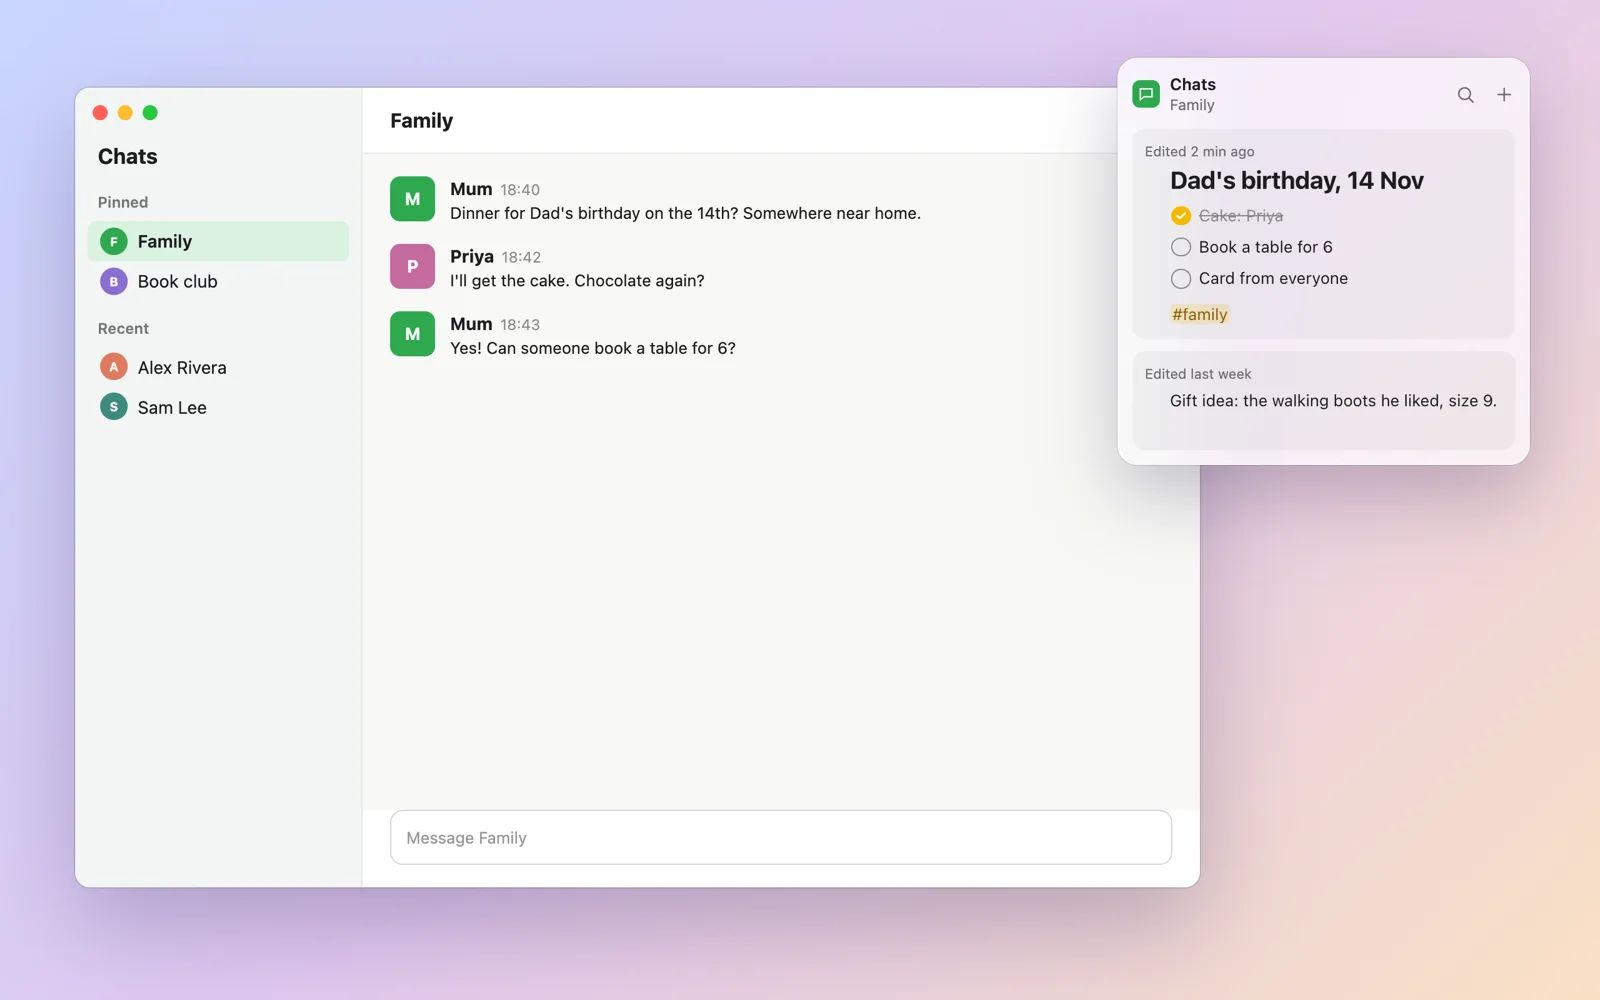
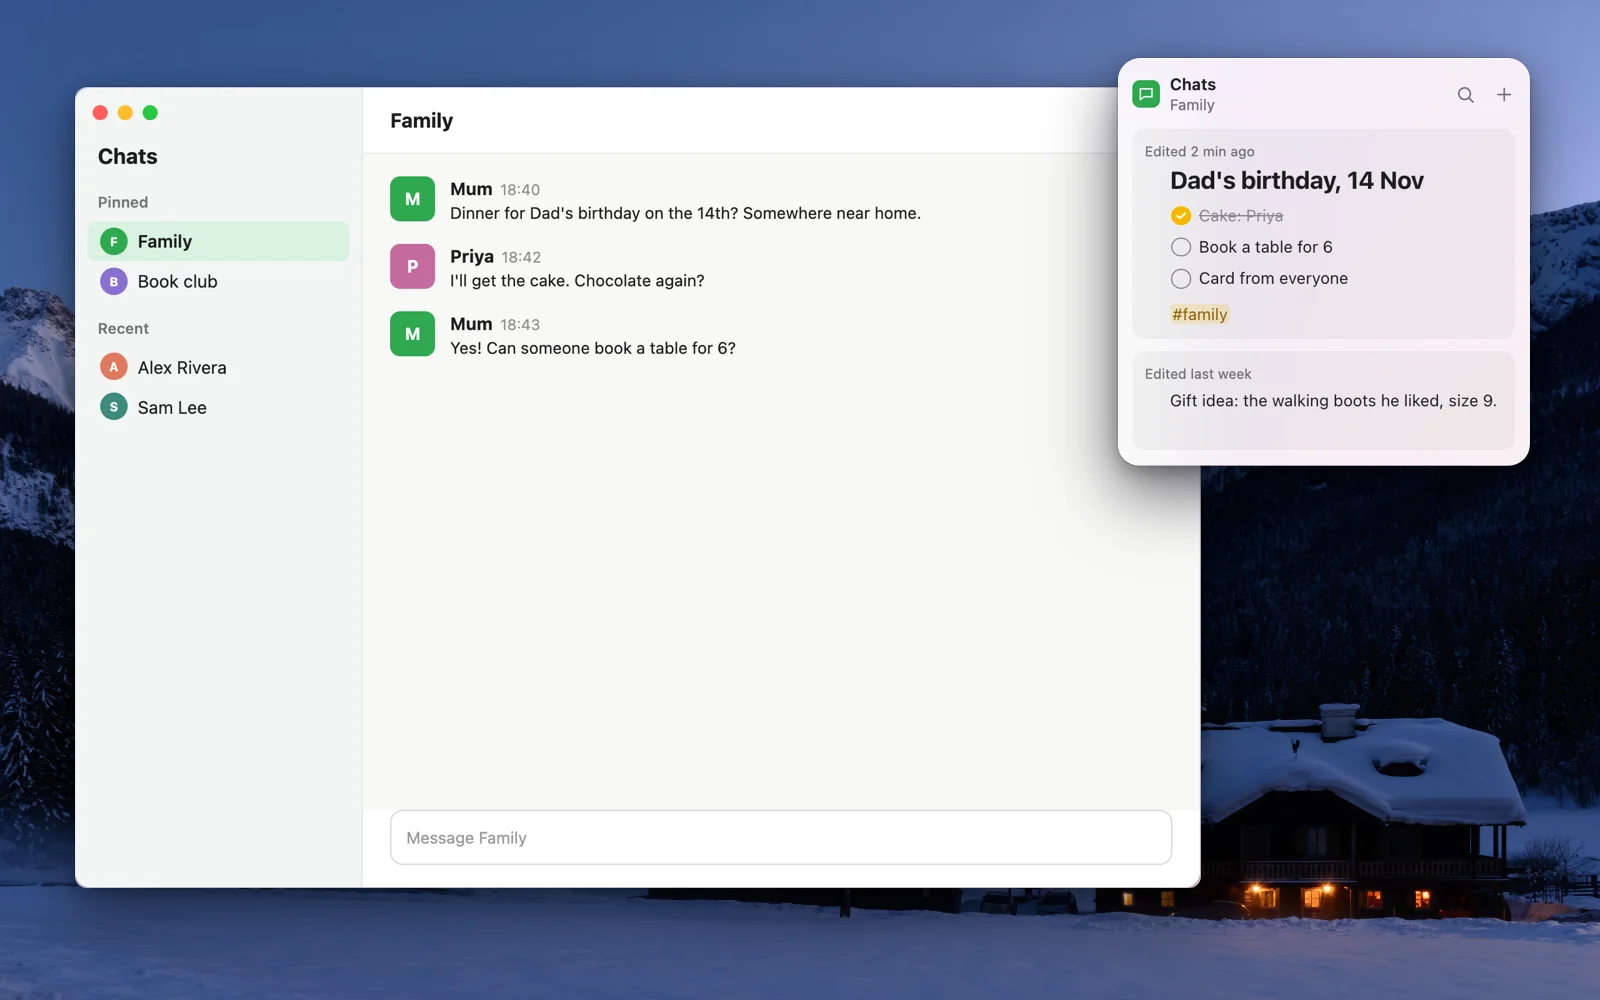
Website: photo desktops, 3Blue1Brown + Gemini study story, full app window for calendar and graph, one spacing scale

diff --git a/site/index.html b/site/index.html
@@ -19,6 +19,11 @@
     --mist: #f5f5f7;
     --blue: #0071e3;
     --font: -apple-system, BlinkMacSystemFont, "SF Pro Display", "Helvetica Neue", Helvetica, Arial, sans-serif;
+    /* One spacing scale for the whole page. */
+    --section: 160px;   /* between sections */
+    --to-sub: 16px;     /* headline to its line */
+    --to-shot: 56px;    /* text to its picture */
+    --stack: 40px;      /* picture to picture */
   }
   * { box-sizing: border-box; }
   html { -webkit-text-size-adjust: 100%; }
@@ -29,22 +34,23 @@
   h1, h2, h3, p { margin: 0; }
   kbd { font: inherit; }
 
-  .top { display: flex; align-items: center; justify-content: space-between; max-width: 1000px; margin: 0 auto; padding: 14px 22px; font-size: 13px; }
+  .top { display: flex; align-items: center; justify-content: space-between; max-width: 1000px; margin: 0 auto; padding: 14px 22px; font-size: 14px; }
   .top a { color: var(--ink); }
   .brand { display: flex; align-items: center; gap: 8px; font-weight: 600; }
   .brand img { width: 22px; height: 22px; }
-  .gh { display: flex; align-items: center; gap: 6px; padding: 4px; color: var(--ink); opacity: .8; }
-  .shot.graph { max-width: 640px; }
-  .gh:hover { opacity: 1; }
-  .gh svg { width: 20px; height: 20px; }
+  .gh { display: flex; align-items: center; gap: 6px; opacity: .8; }
+  .gh:hover { opacity: 1; text-decoration: none; }
+  .gh svg { width: 18px; height: 18px; }
 
-  section { padding: 110px 22px 0; text-align: center; }
-  section.mist { background: var(--mist); margin-top: 110px; padding-bottom: 110px; }
+  section { padding: var(--section) 22px 0; text-align: center; }
+  section.hero { padding-top: 72px; }
+  section.mist { background: var(--mist); margin-top: var(--section); padding-bottom: var(--section); }
+  section.last { padding-bottom: var(--section); }
   h1 { font-size: clamp(48px, 8vw, 80px); font-weight: 700; letter-spacing: -.015em; line-height: 1.05; }
-  h2 { font-size: clamp(36px, 5.6vw, 56px); font-weight: 600; letter-spacing: -.005em; line-height: 1.07; }
-  .tagline { margin-top: 10px; font-size: clamp(22px, 3vw, 28px); font-weight: 500; }
-  .sub { margin: 14px auto 0; max-width: 28em; font-size: clamp(19px, 2.2vw, 21px); color: var(--muted); }
-  .icon { width: 96px; height: 96px; margin-bottom: 18px; }
+  h2 { font-size: clamp(36px, 5.6vw, 56px); font-weight: 600; letter-spacing: -.005em; line-height: 1.07; text-wrap: balance; }
+  .tagline { margin-top: 12px; font-size: clamp(22px, 3vw, 28px); font-weight: 500; }
+  .sub { margin: var(--to-sub) auto 0; max-width: 30em; font-size: clamp(19px, 2.2vw, 21px); color: var(--muted); text-wrap: balance; }
+  .icon { display: block; width: 96px; height: 96px; margin: 0 auto 20px; }
 
   .actions { display: flex; flex-wrap: wrap; justify-content: center; gap: 14px; margin-top: 32px; }
   .pill { display: inline-block; padding: 12px 24px; border-radius: 980px; font-size: 17px; }
@@ -55,27 +61,29 @@
   .line:hover { background: var(--blue); color: #fff; }
   .fine { margin-top: 16px; font-size: 14px; color: var(--muted); }
 
-  .shot { display: block; width: 100%; max-width: 1000px; height: auto; margin: 64px auto 0; border-radius: 18px; }
-  .shot.framed { box-shadow: 0 0 0 1px rgba(0, 0, 0, .06), 0 30px 60px -20px rgba(0, 0, 0, .25); }
+  .shots { display: grid; gap: var(--stack); max-width: 1000px; margin: var(--to-shot) auto 0; }
+  .shots img { display: block; width: 100%; height: auto; }
+  .page { border-radius: 14px; box-shadow: 0 0 0 1px rgba(0, 0, 0, .06), 0 30px 60px -24px rgba(0, 0, 0, .3); }
+  .photo { border-radius: 18px; }
 
   .three { display: grid; grid-template-columns: repeat(3, minmax(0, 1fr)); gap: 48px; max-width: 1000px; margin: 0 auto; }
   .three h3 { font-size: 24px; font-weight: 600; }
   .three p { margin-top: 8px; color: var(--muted); }
 
-  footer { max-width: 1000px; margin: 110px auto 0; padding: 20px 22px 40px; border-top: 1px solid #d2d2d7; display: flex; flex-wrap: wrap; gap: 8px 24px; justify-content: space-between; font-size: 12px; color: var(--muted); }
+  footer { max-width: 1000px; margin: 0 auto; padding: 20px 22px 40px; border-top: 1px solid #d2d2d7; display: flex; flex-wrap: wrap; gap: 8px 24px; justify-content: space-between; font-size: 12px; color: var(--muted); }
   footer a { color: var(--muted); }
 
   @media (prefers-reduced-motion: no-preference) {
-    .hero .shot { animation: rise 1s cubic-bezier(.2, .7, .2, 1) both .2s; }
+    .hero .shots { animation: rise 1s cubic-bezier(.2, .7, .2, 1) both .2s; }
     @keyframes rise { from { opacity: 0; transform: translateY(30px); } }
   }
   @media (max-width: 734px) {
-    section { padding-top: 80px; }
-    section.mist { margin-top: 80px; padding-bottom: 80px; }
-    .three { grid-template-columns: minmax(0, 1fr); gap: 36px; }
-    .shot { margin-top: 44px; border-radius: 12px; }
+    :root { --section: 100px; --to-shot: 36px; --stack: 24px; }
+    section.hero { padding-top: 48px; }
+    .three { grid-template-columns: minmax(0, 1fr); gap: 32px; }
+    .photo { border-radius: 12px; }
+    .page { border-radius: 10px; }
     .actions .pill { flex: 1 1 100%; }
-    footer { margin-top: 80px; }
   }
 </style>
 </head>
@@ -97,38 +105,48 @@
       <a class="pill line" href="https://chromewebstore.google.com/detail/noteanywhere/fngldbimlphnokkkkodneojgbdnofjha">Add to Chrome</a>
     </div>
     <p class="fine">Free and open source. Requires macOS 15 or later.</p>
-    <img class="shot" src="img/chat-channel.webp" width="1600" height="1000"
-         alt="A note for the design-review channel, open in NoteAnywhere's panel beside the chat.">
+    <div class="shots">
+      <img class="photo" src="img/chat-channel.webp" width="1600" height="1000"
+           alt="A note for the design-review channel, open in NoteAnywhere's panel beside the chat.">
+    </div>
   </section>
 
   <section>
     <h2>Every chat has its own notes.</h2>
     <p class="sub">In WhatsApp, Slack and more. Open the chat, and its notes are there.</p>
-    <img class="shot" src="img/chat-group.webp" width="1600" height="1000" loading="lazy"
-         alt="The Family group chat with its own notes in the panel.">
+    <div class="shots">
+      <img class="photo" src="img/chat-group.webp" width="1600" height="1000" loading="lazy"
+           alt="The Family group chat with its own notes in the panel.">
+    </div>
   </section>
 
   <section>
     <h2>So does every web page.</h2>
     <p class="sub">Notes on the lecture you're watching, and on the study session that follows. In Chrome and Brave.</p>
-    <img class="shot framed" src="img/youtube.webp" width="1600" height="1000" loading="lazy"
-         alt="NoteAnywhere's panel on a YouTube lecture about Mel spectrograms, with a checklist for that video.">
-    <img class="shot framed" src="img/gemini.webp" width="1600" height="1000" loading="lazy"
-         alt="NoteAnywhere's panel on Gemini, with a study-session checklist.">
+    <div class="shots">
+      <img class="page" src="img/youtube.webp" width="1600" height="1000" loading="lazy"
+           alt="NoteAnywhere's panel on 3Blue1Brown's video about attention in transformers, with a checklist for that video.">
+      <img class="page" src="img/gemini.webp" width="1600" height="1000" loading="lazy"
+           alt="NoteAnywhere's panel on a Gemini chat about attention, with a study-session checklist.">
+    </div>
   </section>
 
   <section class="mist">
     <h2>All in one place.</h2>
     <p class="sub">With a calendar for your dates and tasks.</p>
-    <img class="shot framed" src="img/calendar.webp" width="1600" height="1047" loading="lazy"
-         alt="A month calendar with notes and tasks on their days.">
+    <div class="shots">
+      <img src="img/calendar.webp" width="1348" height="868" loading="lazy"
+           alt="NoteAnywhere's window: notes in the sidebar, and a month calendar with tasks on their days.">
+    </div>
   </section>
 
   <section>
     <h2>See how it connects.</h2>
     <p class="sub">Each note joins its chat, app or site, its #tags and the notes it links to.</p>
-    <img class="shot framed graph" src="img/graph.webp" width="1200" height="1218" loading="lazy"
-         alt="A graph joining notes to their apps, websites and tags.">
+    <div class="shots">
+      <img src="img/graph.webp" width="1348" height="868" loading="lazy"
+           alt="NoteAnywhere's graph: notes joined to Slack, WhatsApp, YouTube, Gemini and their tags.">
+    </div>
   </section>
 
   <section>
@@ -139,7 +157,7 @@
     </div>
   </section>
 
-  <section>
+  <section class="last">
     <h2>Leave a note anywhere.</h2>
     <div class="actions">
       <a class="pill solid" href="https://dl.noteanywhere.app/NoteAnywhere.dmg">Download for Mac</a>
@@ -148,7 +166,7 @@
 </main>
 
 <footer>
-  <span>Free and open source (GPL-3.0).</span>
+  <span>Free and open source (GPL-3.0). Desktop photos: “Himalayas, Nepal” by Vyacheslav Argenberg (CC BY 4.0) and “Kleinarl Jägersee” by Uoaei1 (CC BY-SA 4.0), via Wikimedia Commons.</span>
   <span><a href="https://github.com/Vishwas3000/NoteAnywhere">Source</a> &nbsp;&nbsp; <a href="https://github.com/Vishwas3000/NoteAnywhere/issues">Report a problem</a></span>
 </footer>
 </body>
